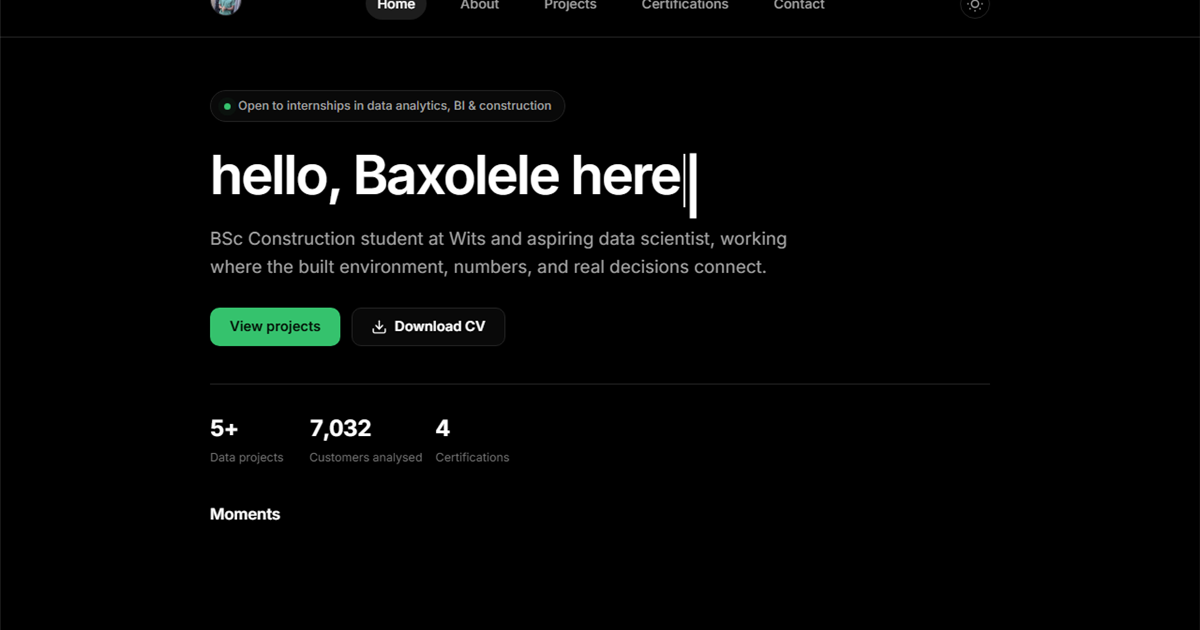
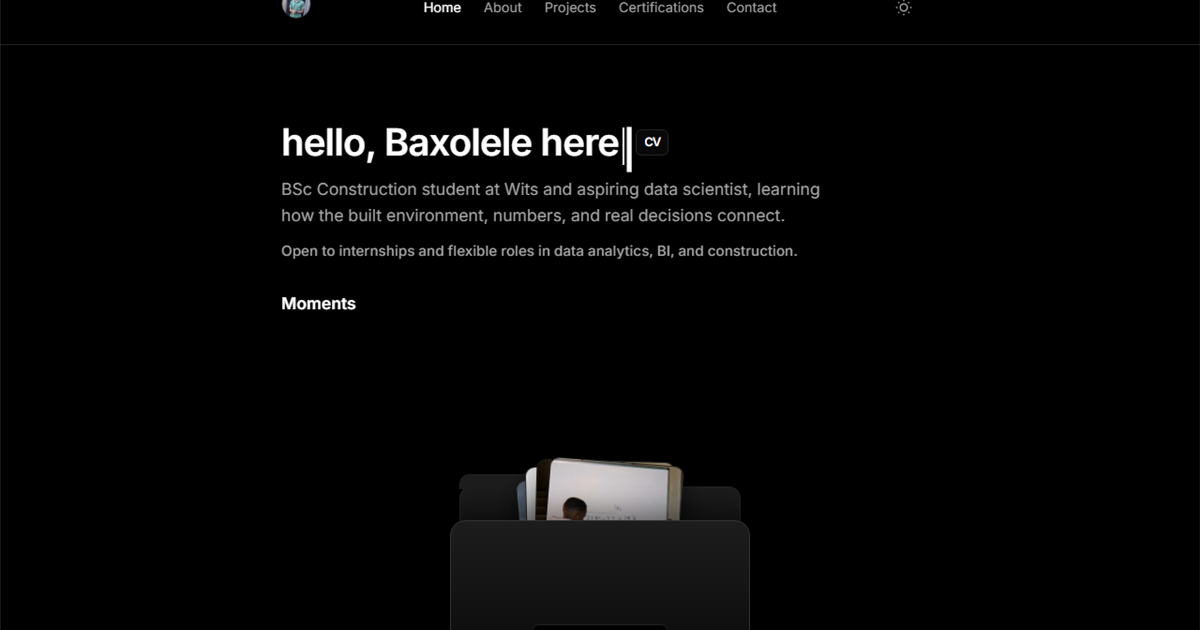
revert: restore original homepage; strict monochrome palette
- Remove the emerald accent entirely. Palette is now white/grey/black
  only, in both themes (brand tokens, timeline dots, result pills).
  Verified: zero non-greyscale colours render anywhere on the page.
- Restore the original hero exactly (inline CV chip, subtitle,
  open-roles line); drop the badge, CTA row and stat strip
- Restore original layout metrics: 720px canvas, 80px nav, 12px radius.
  The 880px canvas had pushed hero text left of the centred gallery,
  which broke the alignment
- Restore the original minimal nav (no pill backgrounds)
- Projects stay single column so the real dashboards read clearly
- Regenerate og-cover.png from the restored monochrome homepage

diff --git a/styles.css b/styles.css
@@ -37,11 +37,11 @@
   --border-hover: oklch(0.32 0 0);     /* input / accent */
 
   --accent: oklch(1 0 0); /* pure white accents */
-  /* Brand accent — restrained emerald for CTAs, links, result highlights */
-  --brand: oklch(0.72 0.17 152);
-  --brand-strong: oklch(0.78 0.18 152);
-  --brand-soft: color-mix(in oklch, var(--brand) 14%, transparent);
-  --on-brand: oklch(0.16 0.03 152);
+  /* Brand accent — strict monochrome: white on dark, black on light */
+  --brand: oklch(1 0 0);
+  --brand-strong: oklch(0.92 0 0);
+  --brand-soft: color-mix(in oklch, oklch(1 0 0) 10%, transparent);
+  --on-brand: oklch(0 0 0);
   --fan-shadow: rgba(0, 0, 0, 0.5);
 
   /* Elevation */
@@ -49,17 +49,17 @@
   --shadow-md: 0 6px 24px -8px rgba(0, 0, 0, 0.55);
   --shadow-lg: 0 20px 50px -18px rgba(0, 0, 0, 0.7);
 
-  --nav-height: 72px;
-  --max-width: 880px;
-  --radius: 14px;
+  --nav-height: 80px;
+  --max-width: 720px;
+  --radius: 12px;
 
   --font-main: 'Inter', system-ui, -apple-system, sans-serif;
 
-  /* Timeline Dots (chart tokens) */
-  --dot-1: oklch(0.58 0.21 260.84);    /* chart-2 blue */
-  --dot-2: oklch(0.81 0.17 75.35);     /* chart-1 amber */
-  --dot-3: #22c55e; /* Green */
-  --dot-4: oklch(0.69 0.20 23.91);     /* destructive red */
+  /* Timeline Dots — monochrome scale */
+  --dot-1: oklch(1 0 0);
+  --dot-2: oklch(0.78 0 0);
+  --dot-3: oklch(0.60 0 0);
+  --dot-4: oklch(0.45 0 0);
 }
 
 [data-theme="light"] {
@@ -76,18 +76,21 @@
   --border-hover: oklch(0.87 0 0);
 
   --accent: oklch(0 0 0);
-  --brand: oklch(0.55 0.15 152);
-  --brand-strong: oklch(0.5 0.16 152);
-  --brand-soft: color-mix(in oklch, var(--brand) 12%, transparent);
+  --brand: oklch(0 0 0);
+  --brand-strong: oklch(0.2 0 0);
+  --brand-soft: color-mix(in oklch, oklch(0 0 0) 8%, transparent);
   --on-brand: oklch(0.99 0 0);
   --fan-shadow: rgba(0, 0, 0, 0.15);
+
+  --dot-1: oklch(0 0 0);
+  --dot-2: oklch(0.35 0 0);
+  --dot-3: oklch(0.55 0 0);
+  --dot-4: oklch(0.72 0 0);
 
   --shadow-sm: 0 1px 2px rgba(0, 0, 0, 0.06);
   --shadow-md: 0 6px 24px -10px rgba(0, 0, 0, 0.18);
   --shadow-lg: 0 20px 50px -20px rgba(0, 0, 0, 0.22);
 
-  --dot-1: oklch(0.55 0.22 264.53);    /* chart-2 blue */
-  --dot-4: oklch(0.63 0.19 23.03);     /* destructive red */
 }
 
 /* ==========================================================================
@@ -1154,71 +1157,9 @@ button:focus-visible,
    Later rules refine the base above. Class names preserved for JS/HTML.
    ========================================================================== */
 
-/* Wider, calmer canvas */
-.minimal-container { max-width: var(--max-width); padding: 0 24px; }
-.main-content { padding-top: calc(var(--nav-height) + 32px); }
-.section-header { margin-bottom: 32px; }
-.section-header h2 { font-size: clamp(1.7rem, 4vw, 2.15rem); letter-spacing: -0.02em; }
-.section-header p { font-size: 0.95rem; }
-
-/* Navbar refinement */
-#navbar { height: var(--nav-height); background: color-mix(in oklch, var(--bg-color) 78%, transparent); }
-.nav-avatar img { width: 34px; height: 34px; }
-.nav-link { padding: 6px 12px; border-radius: 999px; font-weight: 500; transition: color .18s ease, background .18s ease; }
-.nav-link:hover { background: var(--bg-secondary); }
-.nav-link.active { background: var(--bg-tertiary); color: var(--text-primary); }
-.theme-toggle { border: 1px solid var(--border-color); }
-.theme-toggle:hover { border-color: var(--border-hover); }
-
-/* Buttons */
-.btn {
-  display: inline-flex; align-items: center; gap: 8px;
-  padding: 11px 20px; border-radius: 10px;
-  font-size: 0.92rem; font-weight: 600; line-height: 1;
-  border: 1px solid transparent; cursor: pointer;
-  transition: transform .15s ease, background .18s ease, border-color .18s ease, box-shadow .18s ease;
-}
-.btn svg { width: 17px; height: 17px; }
-.btn-primary { background: var(--brand); color: var(--on-brand); box-shadow: var(--shadow-sm); }
-.btn-primary:hover { background: var(--brand-strong); transform: translateY(-1px); box-shadow: var(--shadow-md); }
-.btn-secondary { background: var(--bg-secondary); color: var(--text-primary); border-color: var(--border-color); }
-.btn-secondary:hover { border-color: var(--border-hover); transform: translateY(-1px); background: var(--bg-tertiary); }
-
-/* Hero */
-.home-hero { margin-top: 24px; margin-bottom: 40px; }
-.hero-badge {
-  display: inline-flex; align-items: center; gap: 8px;
-  padding: 6px 14px; margin-bottom: 22px;
-  border: 1px solid var(--border-color); border-radius: 999px;
-  background: var(--bg-secondary);
-  font-size: 0.8rem; font-weight: 500; color: var(--text-secondary);
-}
-.hero-badge__dot {
-  width: 7px; height: 7px; border-radius: 50%; background: var(--brand);
-  animation: pulse-dot 2.4s ease-out infinite;
-}
-@keyframes pulse-dot {
-  0% { box-shadow: 0 0 0 0 color-mix(in oklch, var(--brand) 55%, transparent); }
-  70%, 100% { box-shadow: 0 0 0 7px transparent; }
-}
-.hero-title { font-size: clamp(2.4rem, 7vw, 3.6rem); letter-spacing: -0.035em; margin-bottom: 18px; }
-.hero-subtitle { font-size: clamp(1.02rem, 2.4vw, 1.18rem); max-width: 34em; line-height: 1.6; }
-.hero-cta { display: flex; flex-wrap: wrap; gap: 12px; margin-top: 28px; }
-.hero-stats {
-  display: flex; flex-wrap: wrap; gap: 14px;
-  margin-top: 40px; padding-top: 28px;
-  border-top: 1px solid var(--border-color);
-}
-.hero-stat { display: flex; flex-direction: column; gap: 2px; min-width: 92px; }
-.hero-stat__num { font-size: 1.5rem; font-weight: 700; letter-spacing: -0.02em; font-variant-numeric: tabular-nums; }
-.hero-stat__label { font-size: 0.78rem; color: var(--text-muted); }
-
-.home-gallery { margin-top: 8px; }
-.latest-header h3 { font-size: 1.05rem; letter-spacing: -0.01em; }
-
 /* Projects grid + premium cards */
-.projects-list { display: grid; grid-template-columns: 1fr; gap: 22px; }
-@media (min-width: 720px) { .projects-list { grid-template-columns: repeat(2, 1fr); } }
+/* Single column: full-width dashboards stay legible in the 720px canvas */
+.projects-list { display: grid; grid-template-columns: 1fr; gap: 24px; }
 .project-item {
   display: flex; flex-direction: column; gap: 0; padding: 0; overflow: hidden;
   background: var(--bg-secondary); border: 1px solid var(--border-color); border-radius: var(--radius);

diff --git a/index.html b/index.html
@@ -90,26 +90,12 @@
     <!-- ========== HOME ========== -->
     <section id="home" class="section">
       <div class="home-hero">
-        <span class="hero-badge reveal-after-type">
-          <span class="hero-badge__dot"></span>
-          Open to internships in data analytics, BI &amp; construction
-        </span>
         <h1 class="hero-title" id="hero-title">
           <span><span id="typewriter-target"></span><span class="cursor">|</span></span>
+          <a href="documents/Mazwi_Baxolele_CV.pdf" download class="btn-micro reveal-after-type" title="Download CV">CV</a>
         </h1>
-        <p class="hero-subtitle reveal-after-type">BSc Construction student at Wits and aspiring data scientist, working where the built environment, numbers, and real decisions connect.</p>
-        <div class="hero-cta reveal-after-type">
-          <a href="#projects" class="btn btn-primary" data-nav>View projects</a>
-          <a href="documents/Mazwi_Baxolele_CV.pdf" download class="btn btn-secondary">
-            <svg viewBox="0 0 24 24" fill="none" stroke="currentColor" stroke-width="2" stroke-linecap="round" stroke-linejoin="round"><path d="M21 15v4a2 2 0 0 1-2 2H5a2 2 0 0 1-2-2v-4"/><polyline points="7 10 12 15 17 10"/><line x1="12" y1="15" x2="12" y2="3"/></svg>
-            Download CV
-          </a>
-        </div>
-        <div class="hero-stats reveal-after-type">
-          <div class="hero-stat"><span class="hero-stat__num">5+</span><span class="hero-stat__label">Data projects</span></div>
-          <div class="hero-stat"><span class="hero-stat__num">7,032</span><span class="hero-stat__label">Customers analysed</span></div>
-          <div class="hero-stat"><span class="hero-stat__num">4</span><span class="hero-stat__label">Certifications</span></div>
-        </div>
+        <p class="hero-subtitle reveal-after-type">BSc Construction student at Wits and aspiring data scientist, learning how the built environment, numbers, and real decisions connect.</p>
+        <p class="hero-open-roles reveal-after-type">Open to internships and flexible roles in data analytics, BI, and construction.</p>
       </div>
       
       <div class="home-gallery reveal-after-type">
